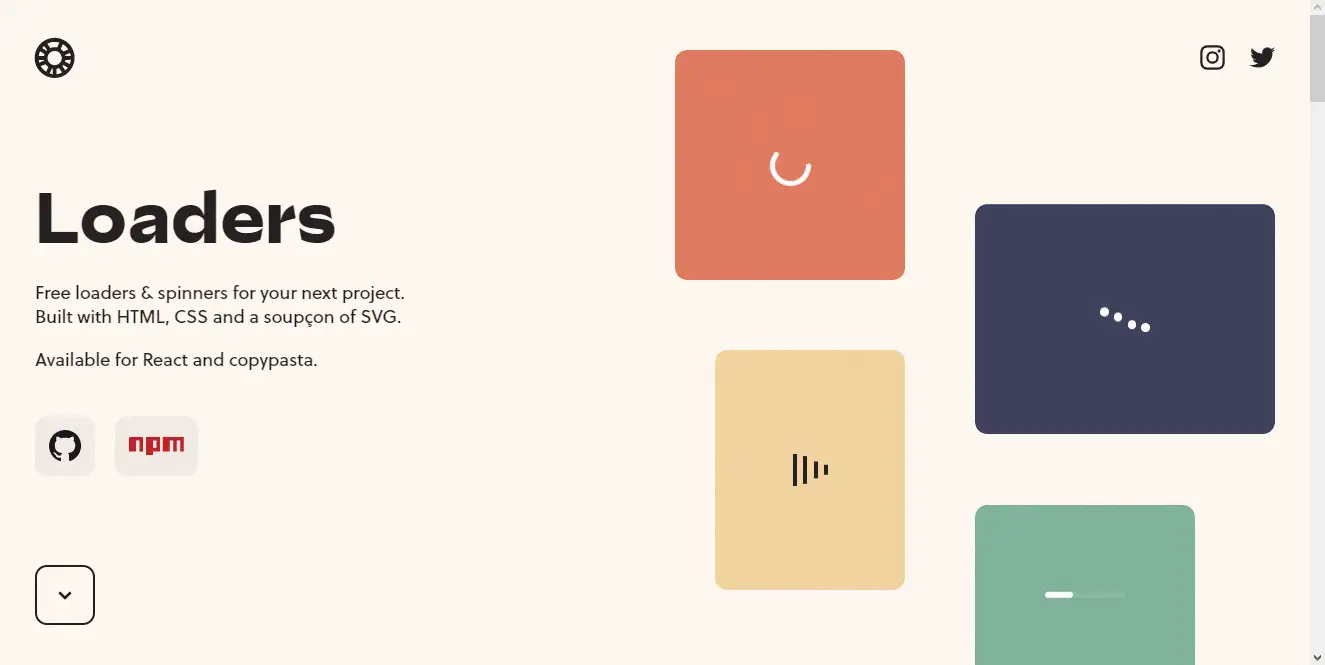
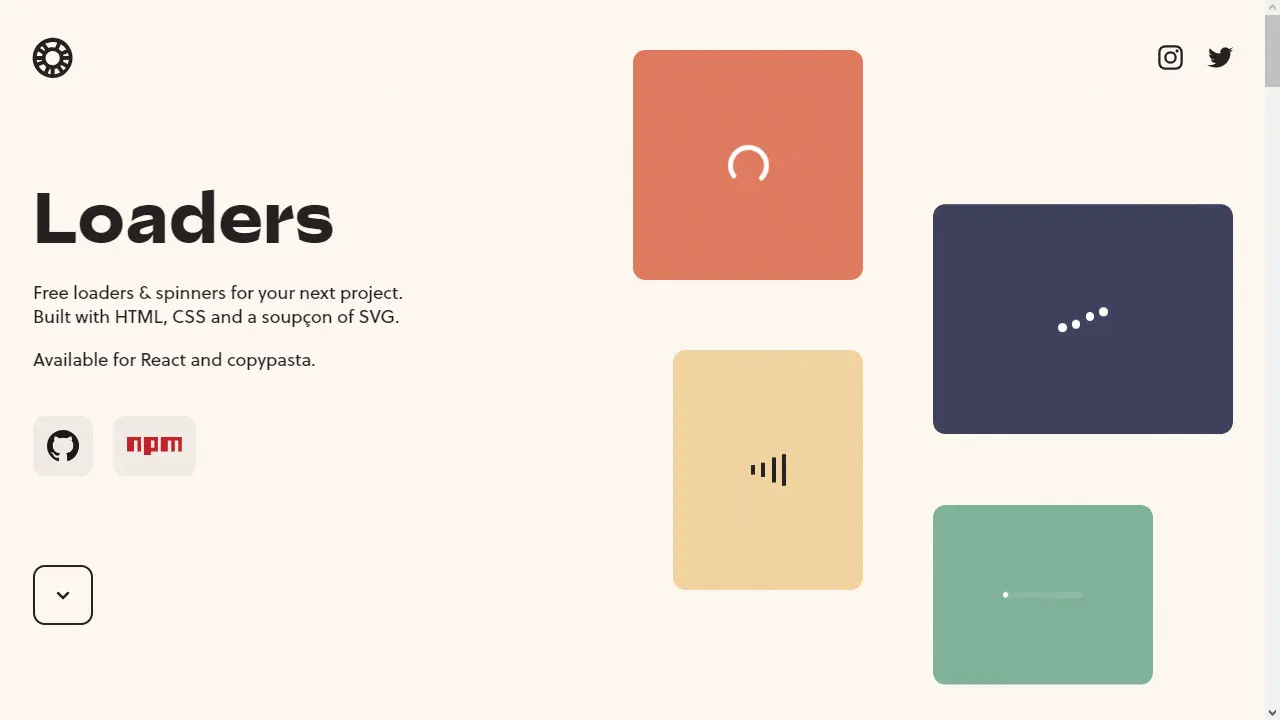
🎨 style: scroll & optimize images

diff --git a/source-web/src/routes/Assets.svelte b/source-web/src/routes/Assets.svelte
@@ -1,8 +1,26 @@
 <script>
 	import autoAnimate from '@formkit/auto-animate';
 	import infoIcon from '@/assets/icons/info.svg';
+	import { afterUpdate } from 'svelte';
+
 	export let categories;
 	let cardSize = 300;
+
+	afterUpdate(() => {
+		let observer = new IntersectionObserver(
+			(cards) => {
+				cards.forEach((card) => {
+					console.log(card.isIntersecting);
+					if (card.isIntersecting) card.target.classList.add('appear');
+				});
+			},
+			{ threshold: 0.2 }
+		);
+
+		document.querySelectorAll('.asset-card').forEach((card) => observer.observe(card));
+
+		return () => observer.disconnect();
+	});
 </script>
 
 <!-- <div class="flex gap-2">
@@ -16,8 +34,8 @@
 				class="flex justify-center border-t-2 mt-6 border-zinc-600 mx-auto sticky top-0 z-40 right-0 left-0"
 			>
 				<div
-					class="flex gap-2 px-10 py-1.5"
-					style={`background-color: ${category.color}; clip-path: polygon(0 0, 100% 0, 90% 100%, 10% 100%);`}
+					class="recourse-title relative flex gap-2 px-10 py-1.5"
+					style={`--resource-color: ${category.color}`}
 				>
 					<img
 						src={'/categories-icons/' + category.name.toLowerCase().replaceAll(' ', '-') + '.svg'}
@@ -25,9 +43,9 @@
 						loading="lazy"
 						class="invert w-6"
 					/>
-					<h2 class="text-lg">
+					<h2 class="text-[17px]">
 						{category.name}
-						<span class="text-base">({category.items.length})</span>
+						<span class="text-[15px]">({category.items.length})</span>
 					</h2>
 				</div>
 			</div>
@@ -38,7 +56,7 @@
 			>
 				{#each category.items as asset}
 					<article
-						class="rounded-lg ring-2 ring-zinc-700 hover:ring-[--card-color] bg-zinc-700 bg-opacity-30 backdrop-blur-md text-white overflow-hidden hover:scale-[1.02] transition-transform"
+						class="asset-card transition-all opacity-40 translate-y-6 scale-75 rounded-lg ring-2 ring-zinc-700 hover:ring-[--card-color] bg-zinc-700 bg-opacity-30 backdrop-blur-md text-white overflow-hidden hover:!scale-[1.02]"
 						style="--card-color: {category.color}"
 					>
 						<a
@@ -54,7 +72,7 @@
 							{#if asset.licence}
 								<div class="group relative">
 									<a
-										class="bg-blue-600 px-4 py-1 rounded-md text-sm tracking-wide"
+										class="bg-blue-600 px-4 py-1 rounded-md text-[13px] tracking-wide"
 										target="_blank"
 										rel="noopener noreferrer"
 										href={asset.licenceLink}
@@ -76,7 +94,7 @@
 							{#if asset.tags}
 								<ul class="flex gap-2">
 									{#each asset.tags as tag}
-										<li class="bg-blue-600 px-4 py-1 rounded-md text-sm tracking-wide">
+										<li class="bg-blue-600 rounded-full px-4 py-1 text-xs tracking-wide">
 											{tag}
 										</li>
 									{/each}

diff --git a/source-web/src/assets/categories.js b/source-web/src/assets/categories.js
@@ -7,34 +7,26 @@ import photosJson from '@/assets/data/photos.json';
 import videosJson from '@/assets/data/videos.json';
 import colorsJson from '@/assets/data/colors.json';
 import fontsJson from '@/assets/data/fonts.json';
-import chartsJson from '@/assets/data/charts.json';
+import librariesJson from '@/assets/data/libraries.json';
 import blogsJson from '@/assets/data/blogs.json';
+import threeDJson from '@/assets/data/3d.json';
+import componentsJson from '@/assets/data/components.json';
 
 export default [
 	{
 		name: 'Icons',
 		items: iconsJson,
-		color: '#2563eb',
+		color: '#2b6dff',
 	},
 	{
 		name: 'Ilustrations',
 		items: ilustrationsJson,
-		color: '#22c55e'
-	},
-	{
-		name: 'Loaders',
-		items: loadersJson,
-		color: '#f97316'
+		color: '#18d16b'
 	},
 	{
 		name: 'Photos',
 		items: photosJson,
 		color: '#d41cf1'
-	},
-	{
-		name: 'Backgrounds',
-		items: backgroundsJson,
-		color: '#4c3fed'
 	},
 	{
 		name: 'Videos',
@@ -47,23 +39,43 @@ export default [
 		color: '#f721a8'
 	},
 	{
-		name: 'Fonts',
-		items: fontsJson,
-		color: '#f59e0b'
+		name: 'Backgrounds',
+		items: backgroundsJson,
+		color: '#4c3fed'
 	},
 	{
-		name: 'Charts',
-		items: chartsJson,
-		color: '#10b981'
+		name: 'Fonts',
+		items: fontsJson,
+		color: '#ffaa1b'
+	},
+	{
+		name: "3D",
+		items: threeDJson,
+		color: '#8338ec',
+	},
+	{
+		name: 'libraries',
+		items: librariesJson,
+		color: '#ff006e'
 	},
 	{
 		name: 'Blogs',
 		items: blogsJson,
-		color: '#3b82f6'
+		color: '#00a1ff'
+	},
+	{
+		name: 'Loaders',
+		items: loadersJson,
+		color: '#f97316'
 	},
 	{
 		name: "UI collections",
 		items: uiCollectionsJson,
 		color: '#6366f1',
-	}
+	},
+	{
+		name: "Components",
+		items: componentsJson,
+		color: '#50bb49',
+	},
 ];

diff --git a/source-web/src/routes/NavBar.svelte b/source-web/src/routes/NavBar.svelte
@@ -6,7 +6,7 @@
 </script>
 
 <nav>
-	<ul class="flex gap-2 flex-wrap">
+	<ul class="flex gap-2 flex-wrap text-md">
 		<li class="flex-grow">
 			<a
 				href="/"
@@ -14,12 +14,12 @@
 					categoryParam === undefined ? 'outline' : ''
 				}`}
 			>
-				<img src="/categories-icons/all.svg" alt="" class="invert w-6" />
+				<img src="/categories-icons/all.svg" alt="" class="invert w-[23px]" />
 				All
 			</a>
 		</li>
 		{#each categories as category}
-			<li class="flex-grow md:min-w-[12rem] text-base">
+			<li class="flex-grow md:min-w-[10rem]">
 				<a
 					href={`/${category.name.toLowerCase().replaceAll(' ', '-')}`}
 					class={`flex items-center w-full justify-center gap-2 bg-[--item-color] rounded-md px-4 py-1.5 flex-grow outline-2 outline-[--item-color] outline-offset-2 cursor-pointer hover:scale-[1.03] transition-transform ${
@@ -34,7 +34,7 @@
 							category.name.toLowerCase().replaceAll(/\/|\s/g, '-') +
 							'.svg'}
 						alt=""
-						class="invert w-6"
+						class="invert w-[23px]"
 					/>
 					{category.name}
 				</a>

diff --git a/source-web/src/routes/styles.css b/source-web/src/routes/styles.css
@@ -3,6 +3,27 @@
 @tailwind components;
 @tailwind utilities;
 
+@layer base {
+	.appear {
+		@apply !translate-y-0 !opacity-100 !scale-100;
+	}
+}
+
+.recourse-title::after {
+	content: '';
+	position: absolute;
+	border-radius: 0 0 10px 10px;
+	-webkit-transform: perspective(100px) rotateX(-20deg);
+	transform: perspective(100px) rotateX(-20deg);
+	background: var(--resource-color);
+	top: 0;
+	right: 0;
+	left: 0;
+	z-index: -10;
+	height: 108%;
+	width: 100%;
+}
+
 :root {
 	--color-bg-1: #1e2022;
 	--color-text: rgba(0, 0, 0, 0.7);

diff --git a/source-web/src/routes/+layout.svelte b/source-web/src/routes/+layout.svelte
@@ -5,7 +5,7 @@
 	import './styles.css';
 </script>
 
-<div class="app flex-1 flex flex-col p-6 md:px-10 max-w-[85rem] mx-auto min-h-screen">
+<div class="app flex-1 flex flex-col p-6 md:px-10 max-w-[95rem] mx-auto min-h-screen">
 	<NavBar />
 	<slot />
 	<BackTop />

diff --git a/source-web/src/routes/+page.svelte b/source-web/src/routes/+page.svelte
@@ -1,8 +1,6 @@
 <script>
 	import categories from '@/assets/categories.js';
 	import Assets from './Assets.svelte';
-
-	console.log(categories);
 </script>
 
 <svelte:head>
